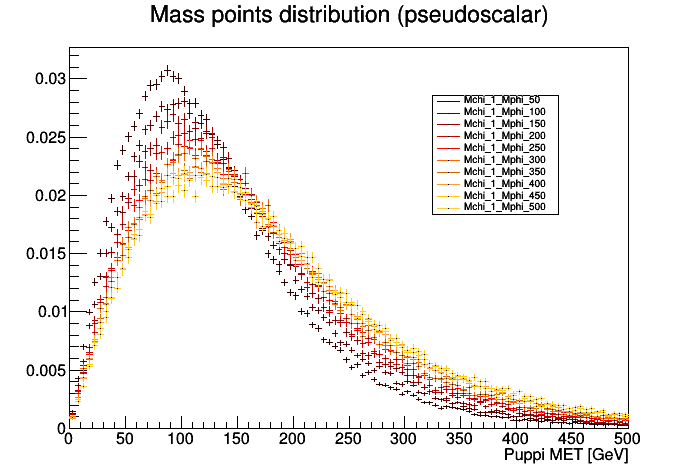
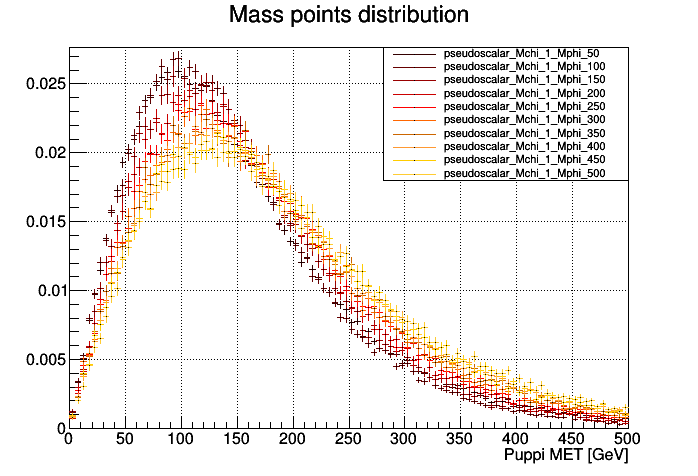
Added mblt variable and plot signal script improved

diff --git a/scripts/plotSignals.py b/scripts/plotSignals.py
@@ -1,41 +1,52 @@
-from ROOT import TCanvas, TLegend, TFile, TH1F
+from ROOT import TCanvas, TLegend, TChain, TFile, TH1F
+import fnmatch, os
 
 #=============================================================================
 #SETUP
 #=============================================================================
-normalization = True
-#variable = ["PuppiMET_pt", 100, 0, 500, "Puppi MET [GeV]"] #Variable name, bins, from, to, xaxis title
+variable = ["PuppiMET_pt", 100, 0, 500, "Puppi MET [GeV]"] #Variable name, bins, from, to, xaxis title
 #variable = ["dark_pt", 50, 0, 800, "Dark pt [GeV]"] 
-variable = ["overlapingFactor", 40, 0, 4, "Overlapping factor"] 
-#signalDir = "/eos/user/c/cprieels/work/SignalsPostProcessing/Pablo/Autumn18_102X_nAODv6_Full2018v6/MCl1loose2018v6__MCCorr2018v6__l2loose__l2tightOR2018v6/"
-signalDir = "/eos/user/c/cprieels/work/TopPlusDMRunIILegacyRootfiles/"
-category = "scalar"
-trailer = "_dnn" #_dnn trailer or not?
-addBackground = True #Plot the ttbar on this graph?
+#variable = ["overlapingFactor", 40, 0, 4, "Overlapping factor"] 
+#variable = ["nbJet", 6, 0, 6, "Loose deepCSV b-jets"] 
+#variable = ["mblt", 16, 20, 350, "mblt [GeV]"] 
 
-files = ['nanoLatino_TTbarDMJets_Dilepton_'+category+'_LO_Mchi_1_Mphi_50'+trailer+'.root', 
-         'nanoLatino_TTbarDMJets_Dilepton_'+category+'_LO_Mchi_1_Mphi_100'+trailer+'.root',
-         'nanoLatino_TTbarDMJets_Dilepton_'+category+'_LO_Mchi_1_Mphi_150'+trailer+'.root',
-         'nanoLatino_TTbarDMJets_Dilepton_'+category+'_LO_Mchi_1_Mphi_200'+trailer+'.root',
-         'nanoLatino_TTbarDMJets_Dilepton_'+category+'_LO_Mchi_1_Mphi_250'+trailer+'.root',
-         'nanoLatino_TTbarDMJets_Dilepton_'+category+'_LO_Mchi_1_Mphi_300'+trailer+'.root',
-         'nanoLatino_TTbarDMJets_Dilepton_'+category+'_LO_Mchi_1_Mphi_350'+trailer+'.root',
-         'nanoLatino_TTbarDMJets_Dilepton_'+category+'_LO_Mchi_1_Mphi_400'+trailer+'.root',
-         'nanoLatino_TTbarDMJets_Dilepton_'+category+'_LO_Mchi_1_Mphi_450'+trailer+'.root',
-         'nanoLatino_TTbarDMJets_Dilepton_'+category+'_LO_Mchi_1_Mphi_500'+trailer+'.root']
+signalDir = "/eos/user/c/cprieels/work/TopPlusDMRunIILegacyRootfiles/Autumn18_102X_nAODv6_Full2018v6/MCl1loose2018v6__MCCorr2018v6__l2loose__l2tightOR2018v6/"
+#signalDir = "/eos/user/c/cprieels/work/TopPlusDMRunIILegacyRootfiles/"
+category = "pseudoscalar"
+trailer = "*"
+#cuts = "mt2ll > 100 && (Lepton_pdgId[0] * Lepton_pdgId[1] == -11*13 || (mll < 76 || mll > 106))"
+cuts = ""
+
+normalization = False
+addBackground = False #Plot the ttbar on this plot as wel?
+logy = False
+
+"""
+files = [{'file': 'TTbarDMJets_Dilepton_' + category + '_LO_Mchi_1_Mphi_50'+ trailer +'.root', 'massPoint': category + '_Mchi_1_Mphi_50'},
+         {'file': 'TTbarDMJets_Dilepton_' + category + '_LO_Mchi_1_Mphi_100'+ trailer +'.root', 'massPoint': category + '_Mchi_1_Mphi_100'},
+         {'file': 'TTbarDMJets_Dilepton_' + category + '_LO_Mchi_1_Mphi_150'+ trailer +'.root', 'massPoint': category + '_Mchi_1_Mphi_150'},
+         {'file': 'TTbarDMJets_Dilepton_' + category + '_LO_Mchi_1_Mphi_200'+ trailer +'.root', 'massPoint': category + '_Mchi_1_Mphi_200'},
+         {'file': 'TTbarDMJets_Dilepton_' + category + '_LO_Mchi_1_Mphi_250'+ trailer +'.root', 'massPoint': category + '_Mchi_1_Mphi_250'},
+         {'file': 'TTbarDMJets_Dilepton_' + category + '_LO_Mchi_1_Mphi_300'+ trailer +'.root', 'massPoint': category + '_Mchi_1_Mphi_300'},
+         {'file': 'TTbarDMJets_Dilepton_' + category + '_LO_Mchi_1_Mphi_350'+ trailer +'.root', 'massPoint': category + '_Mchi_1_Mphi_350'},
+         {'file': 'TTbarDMJets_Dilepton_' + category + '_LO_Mchi_1_Mphi_400'+ trailer +'.root', 'massPoint': category + '_Mchi_1_Mphi_400'},
+         {'file': 'TTbarDMJets_Dilepton_' + category + '_LO_Mchi_1_Mphi_450'+ trailer +'.root', 'massPoint': category + '_Mchi_1_Mphi_450'},
+         {'file': 'TTbarDMJets_Dilepton_' + category + '_LO_Mchi_1_Mphi_500'+ trailer +'.root', 'massPoint': category + '_Mchi_1_Mphi_500'}]
+"""
+
+files = [{'file': 'TTbarDMJets_Dilepton_' + category + '_LO_Mchi_20_Mphi_100'+ trailer +'.root', 'massPoint': category + '_Mchi_20_Mphi_100'},
+         {'file': 'TTbarDMJets_Dilepton_' + category + '_LO_Mchi_30_Mphi_100'+ trailer +'.root', 'massPoint': category + '_Mchi_30_Mphi_100'},
+         {'file': 'TTbarDMJets_Dilepton_' + category + '_LO_Mchi_40_Mphi_100'+ trailer +'.root', 'massPoint': category + '_Mchi_40_Mphi_100'},
+         {'file': 'TTbarDMJets_Dilepton_' + category + '_LO_Mchi_45_Mphi_100'+ trailer +'.root', 'massPoint': category + '_Mchi_45_Mphi_100'},
+         {'file': 'TTbarDMJets_Dilepton_' + category + '_LO_Mchi_49_Mphi_100'+ trailer +'.root', 'massPoint': category + '_Mchi_49_Mphi_100'},
+         {'file': 'TTbarDMJets_Dilepton_' + category + '_LO_Mchi_51_Mphi_100'+ trailer +'.root', 'massPoint': category + '_Mchi_51_Mphi_100'}]
+         #{'file': 'TTbarDMJets_Dilepton_' + category + '_LO_Mchi_55_Mphi_100'+ trailer +'.root', 'massPoint': category + '_Mchi_55_Mphi_100'}] #Not available for pseudoscalar
+
+#files = [{'file': 'TTbarDMJets_Dilepton_' + category + '_LO_Mchi_1_Mphi_100'+ trailer +'.root', 'massPoint': category + '_Mchi_1_Mphi_100'},
+#         {'file': 'DMscalar_Dilepton_top_tWChan_Mchi1_Mphi100' + trailer + '.root', 'massPoint': 'tWChan_Mchi1_Mphi100'}]
 
 if addBackground:
-    files.append('nanoLatino_TTTo2L2Nu'+trailer+'.root')
-
-"""
-files = ['nanoLatino_TTbarDMJets_Dilepton_'+category+'_LO_Mchi_20_Mphi_100'+trailer+'.root',
-         'nanoLatino_TTbarDMJets_Dilepton_'+category+'_LO_Mchi_30_Mphi_100'+trailer+'.root',
-         'nanoLatino_TTbarDMJets_Dilepton_'+category+'_LO_Mchi_40_Mphi_100'+trailer+'.root',
-         'nanoLatino_TTbarDMJets_Dilepton_'+category+'_LO_Mchi_45_Mphi_100'+trailer+'.root',
-         'nanoLatino_TTbarDMJets_Dilepton_'+category+'_LO_Mchi_49_Mphi_100'+trailer+'.root',
-         'nanoLatino_TTbarDMJets_Dilepton_'+category+'_LO_Mchi_51_Mphi_100'+trailer+'.root',
-         'nanoLatino_TTbarDMJets_Dilepton_'+category+'_LO_Mchi_55_Mphi_100'+trailer+'.root']
-"""
+    files.append({'file': 'TTTo2L2Nu'+trailer+'.root', 'massPoint': 'TTTo2L2Nu'})
 
 #=============================================================================
 #GET STARTED
@@ -43,44 +54,55 @@ files = ['nanoLatino_TTbarDMJets_Dilepton_'+category+'_LO_Mchi_20_Mphi_100'+trai
 #Create and store the histograms...
 massPoints = [] #For the legend
 signalHistList = []
-colors = [636, 635, 634, 633, 632, 807, 802, 801, 800, 798] 
+
+if len(files) == 2:
+    colors = [632, 600] 
+else:
+    colors = [636, 635, 634, 633, 632, 807, 802, 801, 800, 798] 
 
 if addBackground:
     colors.append(600)
 
-for f, filename in enumerate(files):
-    print('Now reading file... ' + filename)
+for f, fileDict in enumerate(files):
+    filename = fileDict['file']
+    massPoint = fileDict['massPoint']
+    print('Now considering mass point... ' + massPoint)
 
-    if('TTTo2L2Nu' in filename):
-        massPoint = "TTTo2L2Nu"
-    else:
-        massPoint = "_".join(filename.split("_")[5:9]).replace('.root', '')
-
-    signalFile = TFile.Open(signalDir+filename, "read")
-    signalTree = signalFile.Get("Events")
+    signalChain = TChain("Events")
+    for actualFile in fnmatch.filter(os.listdir(signalDir), 'nanoLatino*' + filename + '*'):
+        signalChain.AddFile(signalDir+actualFile)
         
     histname = 'hist_'+str(f)
-    signalHist = TH1F(histname, 'Mass points distribution ('+category+')', variable[1], variable[2], variable[3])
+    signalHist = TH1F(histname, 'Mass points distribution', variable[1], variable[2], variable[3])
 
-    signalTree.Draw(variable[0] + ' >> ' + histname)
+    signalChain.Draw(variable[0] + ' >> ' + histname, cuts)
     signalHist.SetDirectory(0)
     if normalization: signalHist.Scale(1./signalHist.Integral()) #Normalize the histo to unity
     signalHist.SetStats(0)
     signalHist.SetLineColor(colors[f])
+    if len(files) == 2: signalHist.SetLineWidth(3)
     signalHist.GetXaxis().SetTitle(variable[4])
     
     massPoints.append(massPoint)
     signalHistList.append(signalHist)
 
 #... And plot them
-canvas = TCanvas( 'canvas', 'Signal samples', 200, 10, 700, 500 )
+canvas = TCanvas( 'canvas', 'Signal samples', 200, 10, 700, 500)
+canvas.SetGrid()
 canvas.cd()
 
-legend = TLegend(0.62, 0.55, 0.8, 0.8)
+if len(files) == 2:
+    legend = TLegend(0.60, 0.80, 0.90, 0.90)
+else:
+    #legend = TLegend(0.62, 0.70, 0.90, 0.90) #Scalar high DM mass
+    legend = TLegend(0.55, 0.70, 0.90, 0.90) #Pseudoscalar high DM mass
+    #legend = TLegend(0.62, 0.62, 0.90, 0.90) #Scalar high mediator mass
+    #legend = TLegend(0.55, 0.62, 0.90, 0.90) #Pseudoscalar high mediator mass
 
 for i, h in enumerate(signalHistList):
     h.Draw('same')
     legend.AddEntry(h, massPoints[i])
 
 legend.Draw()
-canvas.SaveAs(category+'_'+variable[0]+'.png')
+if logy: canvas.SetLogy();
+canvas.SaveAs(variable[0]+'.png')

diff --git a/neuralNetwork/runMVA.py b/neuralNetwork/runMVA.py
@@ -6,6 +6,7 @@ from keras.models import Sequential
 from keras.layers import Dense, Activation, Dropout
 from keras.regularizers import l2
 from keras.optimizers import SGD, RMSprop, Adam
+from keras.models import load_model
 #from keras.utils import plot_model
 
 import optparse, os, fnmatch, sys
@@ -17,8 +18,8 @@ from array import array
 
 #Training variables
 #variables = ["PuppiMET_pt", "mt2ll", "totalET", "dphill", "dphillmet", "Lepton_pt[0]", "Lepton_pt[1]", "mll", "nJet", "nbJet", "mtw1", "mtw2", "mth", "Lepton_eta[0]", "Lepton_eta[1]", "Lepton_phi[0]", "Lepton_phi[1]", "thetall", "thetal1b1", "thetal2b2", "dark_pt", "overlapping_factor", "reco_weight"] #cosphill missing, mt2bl as well
-variables = ["PuppiMET_pt", "MET_significance", "mt2ll", "mt2bl", "dphillmet", "Lepton_eta[0]", "Lepton_eta[1]", "dark_pt", "overlapping_factor", "reco_weight", "cosphill", "nbJet"] 
-#variables = ["PuppiMET_pt", "mt2ll", "dphillmet", "dark_pt", "nbJet"] 
+#variables = ["PuppiMET_pt", "MET_significance", "mll", "mt2ll", "mt2bl", "dphillmet", "Lepton_pt[0]", "Lepton_pt[1]", "Lepton_eta[0]", "Lepton_eta[1]", "dark_pt", "overlapping_factor", "reco_weight", "cosphill", "nbJet"] 
+variables = ["PuppiMET_pt", "mt2ll", "dphillmet", "dark_pt", "nbJet"] 
 
 trainPercentage = 50
 normalizeProcesses = True #Normalize all the processes to have the same input training events in each case
@@ -115,7 +116,7 @@ def trainMVA(baseDir, inputDir, year, backgroundFiles, signalFiles, test):
         
     #Let's know try to find out how many signal and background processes have been passed as argument
     signalProcesses = splitByProcess(signalFiles, test, False)
-    backgroundProcesses = splitByProcess(backgroundFiles, test, True)
+    backgroundProcesses = splitByProcess(backgroundFiles, test, False)
 
     print(bcolors.WARNING + "\n --> I found " + str(len(signalProcesses)) + " signal processes and " + str(len(backgroundProcesses)) + " background processes.")
     print("Please check if these numbers seem to be correct! \n" + bcolors.ENDC)
@@ -213,20 +214,20 @@ def trainMVA(baseDir, inputDir, year, backgroundFiles, signalFiles, test):
 
     #Repeat 2016 analysis
     model = Sequential()
-    model.add(Dense(6, activation='sigmoid', input_dim=len(variables)))
-    model.add(Dense(3, activation='sigmoid'))
+    model.add(Dense(15, activation='relu', input_dim=len(variables)))
+    model.add(Dense(10, activation='relu'))
+    model.add(Dense(5, activation='relu'))
     model.add(Dense(numberProcesses, activation='softmax'))
 
-    # Set loss and optimizer and save the model                                                                                                                                                                    
     model.compile(loss='categorical_crossentropy', optimizer=Adam(0.005), metrics=['accuracy', 'mse'])
     model.save(outputDirTraining+'Juan.h5')
     model.summary()
 
     # Book method
     #factory.BookMethod(dataloader, ROOT.TMVA.Types.kBDT, 'BDT', 'NTrees=300:BoostType=Grad:Shrinkage=0.2:MaxDepth=4:ncuts=1000000:MinNodeSize=1%:!H:!V')
-    #factory.BookMethod(dataloader, ROOT.TMVA.Types.kBDT, 'BDT', 'NTrees=300:BoostType=Grad:Shrinkage=0.2:MaxDepth=4:ncuts=50000:MinNodeSize=1%:!H:!V')
     factory.BookMethod(dataloader, ROOT.TMVA.Types.kPyKeras, 'PyKeras', 'H:!V:FilenameModel=' + outputDirTraining + 'Juan.h5:FilenameTrainedModel=' + outputDirTraining + 'JuanTrained.h5:NumEpochs=200:BatchSize=200:VarTransform=N')
-    #factory.BookMethod(dataloader, ROOT.TMVA.Types.kMLP, 'Juan', 'H:!V:NeuronType=sigmoid:NCycles=50:VarTransform=Norm:HiddenLayers=10,5:TestRate=3:LearningRate=0.005')
+    #factory.BookMethod(dataloader, ROOT.TMVA.Types.kBDT, 'BDT', 'NTrees=300:BoostType=Grad:Shrinkage=0.2:MaxDepth=4:ncuts=50000:MinNodeSize=1%:!H:!V')
+    #factory.BookMethod(dataloader, ROOT.TMVA.Types.kMLP, 'Juan', 'H:!V:NeuronType=sigmoid:NCycles=50:VarTransform=Norm:HiddenLayers=6,3:TestRate=3:LearningRate=0.005')
 
     # ===========================================
     # Run training, test and evaluation
@@ -253,8 +254,8 @@ def evaluateMVA(baseDir, inputDir, filename, massPoints, year, test):
 
     reader = ROOT.TMVA.Reader("Color:!Silent")
     for variable in variables:
-        reader.AddVariable(variable, array('f',[0.]))
-        
+        reader.AddVariable(variable, array('f',[0.]))    
+
     #Write the new branches in the tree
     rootfile = ROOT.TFile.Open(inputDir+filename, "UPDATE")
     inputTree = rootfile.Get("Events")
@@ -263,19 +264,11 @@ def evaluateMVA(baseDir, inputDir, filename, massPoints, year, test):
 
         weightsDir = baseDir + "/" + str(year) + "/" + massPoint
 
-        reader.BookMVA("BDT", weightsDir + "/dataset/weights/TMVAClassification_BDT.weights.xml")
-        #reader.BookMVA("Fisher", weightsDir + "/dataset/weights/TMVAClassification_Fisher.weights.xml")
+        #reader.BookMVA("BDT", weightsDir + "/dataset/weights/TMVAClassification_BDT.weights.xml")
         reader.BookMVA("PyKeras", weightsDir + "/dataset/weights/TMVAClassification_PyKeras.weights.xml")
-        #reader.BookMVA("LikelihoodD", weightsDir + "/dataset/weights/TMVAClassification_LikelihoodD.weights.xml")
 
-        BDT_output = array("f", [0.])
-        inputTree.Branch("BDT_output", BDT_output, "BDT_output/F")
-        #Fisher_output = array("f", [0.])
-        #inputTree.Branch("Fisher_output", Fisher_output, "Fisher_output/F")
         PyKeras_output = array("f", [0.])
         inputTree.Branch("PyKeras_output", PyKeras_output, "PyKeras_output/F")
-        #LikelihoodD_output = array("f", [0.])
-        #inputTree.Branch("LikelihoodD_output", LikelihoodD_output, "LikelihoodD_output/F")
 
         nEvents = rootfile.Events.GetEntries()
         if test:
@@ -290,20 +283,17 @@ def evaluateMVA(baseDir, inputDir, filename, massPoints, year, test):
             if test and index == nEvents:
                 break
 
-            BDTValue = reader.EvaluateMVA("BDT")
-            BDT_output[0] = BDTValue
-            #FisherValue = reader.EvaluateMVA("Fisher")
-            #Fisher_output[0] = FisherValue
+            #BDTValue = reader.EvaluateMVA("BDT")
+            #BDT_output[0] = BDTValue
             PyKerasValue = reader.EvaluateMVA("PyKeras")
             PyKeras_output[0] = PyKerasValue
-            #LikelihoodDValue = reader.EvaluateMVA("LikelihoodD")
-            #LikelihoodD_output[0] = LikelihoodDValue
 
             inputTree.Fill()
 
     inputTree.Write()
     rootfile.Close()
-        
+
+
     
 if __name__ == "__main__":
 

diff --git a/neuralNetwork/createTrees.py b/neuralNetwork/createTrees.py
@@ -161,6 +161,8 @@ def createTree(inputDir, outputDir, baseDir, filename, firstEvent, lastEvent, sp
     outputTree.Branch("mt2ll", mt2ll, "mt2ll/F")
     mt2bl = array("f", [0.])
     outputTree.Branch("mt2bl", mt2bl, "mt2bl/F")
+    mblt = array("f", [0.])
+    outputTree.Branch("mblt", mblt, "mblt/F")
 
     reco_weight = array("f", [0.])
     outputTree.Branch("reco_weight", reco_weight, "reco_weight/F")
@@ -251,14 +253,27 @@ def createTree(inputDir, outputDir, baseDir, filename, firstEvent, lastEvent, sp
         jetIndexes = []
         bJetIndexes = [] #Instead of keeping all the b-jets in a new collection, let's just keep in the trees their indexes to save memory
 
+        mbltJets = []  #Keep jets needed to compute the mblt variable as in https://arxiv.org/pdf/1812.00694.pdf (6.1)
+        lastmlbJet = None
+
         ibjet = 0
         for j, jet in enumerate(ev.CleanJet_pt): #TOCHECK: For now, we only consider b-jets from the clean jets collection
+            maxBWeight = -10.0
+
             jetIndexes.append(j)
-            if ev.Jet_btagDeepB[ev.CleanJet_jetIdx[j]] > 0.2217: #TOCHECK: Loose WP for now
+            if ev.Jet_btagDeepB[ev.CleanJet_jetIdx[j]] > 0.2217:
                 bJetIndexes.append(j) #Variable to use for the ttbar reco
                 bJetsIdx[ibjet] = j #Variable to keep in the tree
                 ibjet = ibjet + 1
-
+                
+                if len(mbltJets) < 3:
+                    mbltJets.append(j)
+            else: #If not a b-jet, we want to keep the highest scoring b-tag weight in the mbltJets list
+                bWeight = ev.Jet_btagDeepB[ev.CleanJet_jetIdx[j]]
+                if bWeight > maxBWeight:
+                    lastmlbJet = j
+            
+        if(len(mbltJets) < 3 and lastmlbJet is not None): mbltJets.append(lastmlbJet)
         nbJet[0] = len(bJetIndexes)
 
         if len(bJetIndexes) == 0: #We don't consider events having less than 1 b-jet
@@ -303,6 +318,7 @@ def createTree(inputDir, outputDir, baseDir, filename, firstEvent, lastEvent, sp
             continue
 
         for j, jet in enumerate(bJetCandidateIndexes):
+
             if j == 0:
                 #By construction, we know that the first element of bJetCandidateIndexes is a b-jet
                 Tb1.SetPtEtaPhiM(ev.CleanJet_pt[jet], ev.CleanJet_eta[jet], ev.CleanJet_phi[jet], ev.Jet_mass[ev.CleanJet_jetIdx[jet]])
@@ -348,6 +364,7 @@ def createTree(inputDir, outputDir, baseDir, filename, firstEvent, lastEvent, sp
                                 inverseOrder = True
                                 maxWeight = smearedEventKinematic2.weight
                                 break
+
 
         #Keep track of all the weights needed to computed the top quark pt later on
         weights = []
@@ -470,8 +487,25 @@ def createTree(inputDir, outputDir, baseDir, filename, firstEvent, lastEvent, sp
         
             cosphill[0] = -99.0 #We need the nu information for this variable, so default value if reco failed
 
-        outputTree.Fill()
+        #===================================================
+        #Compute the mblt variable as in https://arxiv.org/pdf/1812.00694.pdf (6.1)
+        #===================================================
 
+        TmbltJet1 = r.TLorentzVector()
+        TmbltJet2 = r.TLorentzVector()
+
+        mbltPossibilities = []
+        for jet1 in mbltJets:
+            TmbltJet1.SetPtEtaPhiM(ev.CleanJet_pt[jet1], ev.CleanJet_eta[jet1], ev.CleanJet_phi[jet1], ev.Jet_mass[ev.CleanJet_jetIdx[jet1]])
+
+            for jet2 in mbltJets:
+                if jet2 != jet1:
+                    TmbltJet2.SetPtEtaPhiM(ev.CleanJet_pt[jet2], ev.CleanJet_eta[jet2], ev.CleanJet_phi[jet2], ev.Jet_mass[ev.CleanJet_jetIdx[jet2]])
+                    mbltPossibilities.append(max((Tlep1 + TmbltJet1).M(), (Tlep2 + TmbltJet2).M()))
+
+        mblt[0] = min(mbltPossibilities)
+
+        outputTree.Fill()
 
     try:
         print '\nThe ttbar reconstruction worked for ' + str(round((nWorked/float(nAttempts))*100, 2)) + '% of the events considered'
